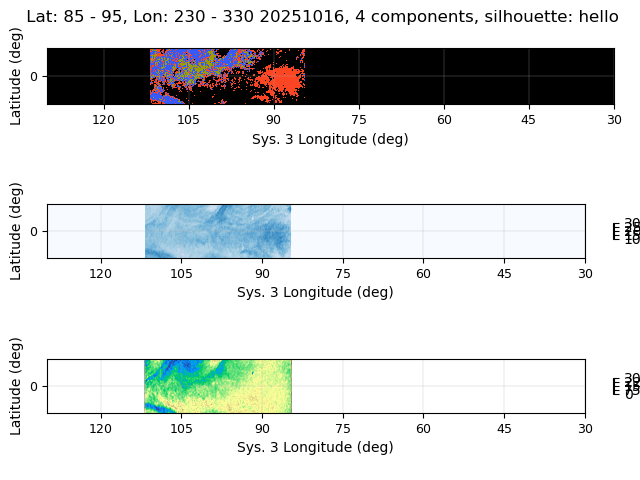
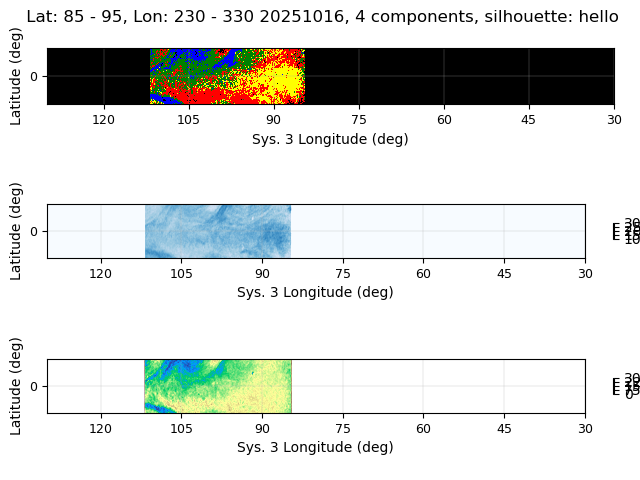
fix: discrete color mapping for clustering

Changed region(s): [[0.2188, 0.0938, 0.5, 0.2188]]

diff --git a/scripts/plots/mapping.py b/scripts/plots/mapping.py
@@ -6,6 +6,7 @@ import scripts.plots.plots as plots
 import scripts.clustering.clusters as CL 
 from sklearn.metrics import silhouette_score
 from config.config import config
+from matplotlib import colors
 
 def create_axis(axs3, LatLims, LonLims, LonSys):
     #fig3,axs3=pl.subplots(dpi=150, facecolor="white")
@@ -23,23 +24,20 @@ def create_axis(axs3, LatLims, LonLims, LonSys):
     axs3.set_adjustable('box') 
     return axs3
 
-def plot_patch(patch, LatLims, LonLims, cmap, axis, v_min, v_max, title, cm_num, fig = None, cbarplot = False, cbar_title = "test"):
+def plot_cluster_patch(patch, LatLims, LonLims, cmap, axis, v_min, v_max, title, cm_num, fig = None, cbarplot = False, cbar_title = "test"):
     '''
     Purpose:
-        to plot a patch with appropriate longitude/latitude scales
-    '''
-    vn = v_min
-    vx = v_max 
-    print(vn)
-    print(vx)
-    #fdvactor here
-    n = vx - vn
+        to plot a patch of clusters with appropriate longitude/latitude scales
+    '''  
+    n = v_max - v_min
+    bounds = [i for i in range(v_max - v_min + 1)]
+    norm = colors.BoundaryNorm(bounds, cmap.N)
     create_axis(axis, [LatLims[0] - 90, 90 - LatLims[1]], LonLims,  cm_num)
     np.nan_to_num(patch, copy=False, nan=-1.0, posinf=0.0, neginf=0.0)
-    tx=np.linspace(vn,vx,5 ,endpoint=True)
+    tx=np.linspace(v_max,v_min,n ,endpoint=True)
     
 
-    show=axis.imshow(patch,  origin='upper', cmap = cmap, vmin=vn,vmax=vx,  
+    show=axis.imshow(patch,  origin='upper', interpolation = 'nearest', cmap = cmap, norm = norm,  
                extent=[360-LonLims[0],360-LonLims[1],90-LatLims[1],
                        90-LatLims[0]],
                        aspect="equal")
@@ -65,14 +63,57 @@ def plot_patch(patch, LatLims, LonLims, cmap, axis, v_min, v_max, title, cm_num,
         #if cbar_reverse:
         #    cbar.ax.invert_yaxis()
 
+
+def plot_patch(patch, LatLims, LonLims, cmap, axis, v_min, v_max, title, cm_num, fig = None, cbarplot = False, cbar_title = "test"):
+    '''
+    Purpose:
+        to plot a patch with appropriate longitude/latitude scales
+    '''  
+    vn = v_min
+    vx = v_max
+    #fdvactor here
+    n = vx - vn
+    create_axis(axis, [LatLims[0] - 90, 90 - LatLims[1]], LonLims,  cm_num)
+    np.nan_to_num(patch, copy=False, nan=-1.0, posinf=0.0, neginf=0.0)
+    tx=np.linspace(vn,vx,5 ,endpoint=True)
     
+
+    show=axis.imshow(patch,  origin='upper', cmap = cmap, vmin=vn,vmax=vx,  
+               extent=[360-LonLims[0],360-LonLims[1],90-LatLims[1],
+                       90-LatLims[0]],
+                       aspect="equal")
+    #axis.set_title(title, pad = 15)
+
+    im_ratio = patch.shape[0]/patch.shape[1]
+    #axis.set_title(title, pad = 15)
+
+    im_ratio = patch.shape[0]/patch.shape[1]
+    
+    if cbarplot:
+        cbar = fig.colorbar(show, ticks=tx, 
+                   orientation='vertical',
+                   ax=axis,fraction=0.046*im_ratio, pad=0.05)
+        #cbar.ax.set_yticklabels(np.around(tx,3))
+
+
+        #cbar.set_ticks(tx)
+        #cbar.set_ticklabels(np.around(tx, 3))
+        #cbar.ax.tick_params(labelsize=6,color="k")#if iSession >1:
+        #cbar.ax.set_ylabel(cbar_title, size=6)#,labelpad=-20, y=0.5)
+
+
+        #cbar.ax.yaxis.set_label_coords(-1.5, 0.5)
+        #cbar.ax.yaxis.set_label_coords(-2.1, 0.5)
+        #if cbar_reverse:
+        #    cbar.ax.invert_yaxis()
+
 def create_cluster_map(axis,  n_comp, pred, input_arr, subset_shape, 
                            latRng, lngRng, cmap, cm_num = 3):
    
     cluster_map = create_cluster_arr(input_arr, subset_shape, pred)
     
     cmap.set_under("black")
-    plot_patch(cluster_map, latRng, lngRng,  cmap, axis,  0, n_comp, "cluster map", cm_num)
+    plot_cluster_patch(cluster_map, latRng, lngRng,  cmap, axis,  0, n_comp, "cluster map", cm_num)
 
 
 

diff --git a/scripts/processes.py b/scripts/processes.py
@@ -19,8 +19,11 @@ def output_cluster_map_and_plot(date, keywords, param_ranges,
     pred = CL.create_clusters(input_arr[:, [0,1]], cov_type, n_comp, config["soft_clustering"])
     sil_score = "hello"
     #str(round(silhouette_score(input_arr, pred), 3))
-    colors = np.random.rand(n_comp, 4)
+    #colors = np.random.rand(n_comp, 3)
+    colors =["red", "green", "blue", "yellow"]
     cmap = ListedColormap(colors)
+    print("colors")
+    print(colors)
 
     fig, axis = pl.subplots(2, 1)
     MP.create_cluster_map(axis[0], n_comp, pred, input_arr, subset_shape, latRng, lngRng, cmap, cm_num)
@@ -35,7 +38,8 @@ def output_cluster_map(date, keywords, param_ranges,
     [input_arr, subset_shape] = pre.get_input_array(keywords, param_ranges, latRng, lngRng, cm_num)
     pred = CL.create_clusters(input_arr[:, [0,1]], cov_type, n_comp)
     sil_score = str(round(silhouette_score(input_arr, pred), 3))
-    colors = np.random.rand(n_comp, 3)
+    #colors = np.random.rand(n_comp, 3)
+    colors =["red", "green", "blue", "yellow"]
     cmap = ListedColormap(colors)
     fig, axis = pl.subplots(1, 1)
     MP.create_cluster_map(axis, n_comp, pred, input_arr, subset_shape, latRng, lngRng, cmap, cm_num)
@@ -53,7 +57,8 @@ def output_cluster_plot(date, keywords, param_ranges,
     pred = CL.create_clusters(input_arr[:, [0,1]], cov_type, n_comp)
     print(pred)
     sil_score = str(round(silhouette_score(input_arr, pred), 3))
-    colors = np.random.rand(n_comp, 3)
+    #colors = np.random.rand(n_comp, 3)
+    colors = ["red", "green", "blue", "yellow"]
     cmap = ListedColormap(colors)
     fig, axis = pl.subplots(1, 1)
     PL.create_cluster_plot(axis, keywords, input_arr, pred,  n_comp, cov_type, latRng, lngRng, cmap, cm_num)
@@ -75,7 +80,7 @@ def create_map_comparison(date, keywords, param_ranges,
     sil_score = "hello"
 
     print("computed sil score")
-    colors = np.random.rand(n_comp, 3)
+    colors = ["red", "green", "blue", "yellow"]
     cmap = ListedColormap(colors)
     print("start fig")
     fig, axis = pl.subplots(3, 1, constrained_layout = True)
@@ -97,7 +102,7 @@ def create_map_comparison(date, keywords, param_ranges,
 
 #output_cluster_map("20251214", ["NH3", "PCld"], [[0, 300], [1000, 3000]], 5)
 #get correct filters
-create_map_comparison("20251016", ["NH3", "PCld", "AOI", "CI"], [[100, 300], [1500,  2500], [0, 1], [0, 1]])#
+#create_map_comparison("20251016", ["NH3", "PCld", "AOI", "CI"], [[100, 300], [1500,  2500], [0, 1], [0, 1]])#
 output_cluster_map_and_plot("20251016", ["NH3", "PCld", "AOI", "CI"], [[100, 300], [1500,  2500], [0, 1], [0, 1]])
 
 

diff --git a/config/config.py b/config/config.py
@@ -3,7 +3,7 @@ config = {
     'input': "data/HST/20251016UT",
     #'input': "data/L4/20251214UT",
     "output": "data/visualizations/HST/20251016UT",
-    "soft_clustering": True,
+    "soft_clustering": False,
     
 
 }
